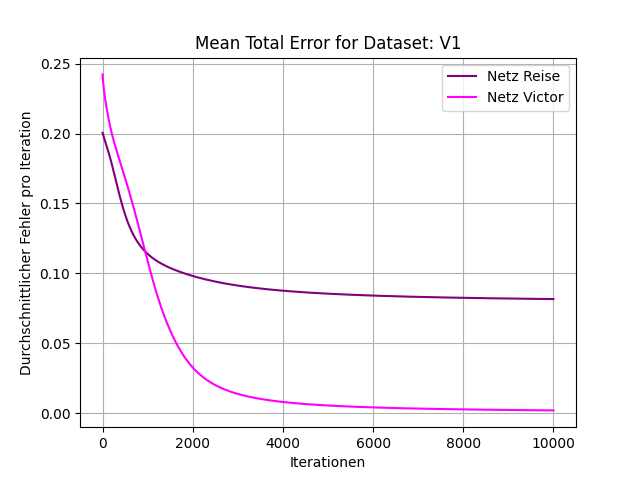
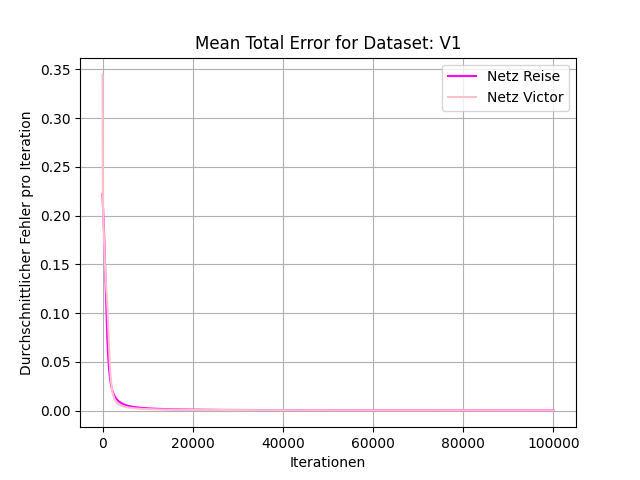
Add comments

diff --git a/Src/Main/Main.java b/Src/Main/Main.java
@@ -791,7 +791,6 @@ public class  Main {
     }
 
     // Reise Method End
-
     public static void compareTotalError() throws IOException {
         String PathLay = "layer_config/";
         String PathTra = "training_data/";
@@ -802,7 +801,7 @@ public class  Main {
 
         File[] dirTrainingData = training_data.listFiles(pathname -> pathname.getName().startsWith(prefix));
         File[] dirLayerConfig = layer_config.listFiles(pathname -> pathname.getName().startsWith(prefix));
-
+        //sortieren damit für training die richtige layer Konfiguration benutzt wird
         Arrays.sort(dirTrainingData);
         Arrays.sort(dirLayerConfig);
 
@@ -827,15 +826,13 @@ public class  Main {
         // für jedes File aus der trainingsdatei
         System.out.println("Starting with evaluating Training data ...");
         for (int i = 1; i < 2; i++) {
-
+            // scheide das Kürzel raus damit man die Daten unterscheiden Kann
             String tag = dirLayerConfig[i].getName();
             tag = tag.substring(0, 3);
-
-            tdata = new TrainingDataVic(PathLay + dirLayerConfig[i].getName(),
-                    PathTra + dirTrainingData[i].getName());
+            // init
+            tdata = new TrainingDataVic(PathLay + dirLayerConfig[i].getName(), PathTra + dirTrainingData[i].getName());
             nvic = new NeuralNetworkVic(tdata);
-            nreise = new NeuralNetworkReise(PathLay + dirLayerConfig[i].getName(),
-                    -1, 1);
+            nreise = new NeuralNetworkReise(PathLay + dirLayerConfig[i].getName(), -1, 1);
             nreise.getTrainingDataLearnable(PathTra + dirTrainingData[i].getName());
 //
             nreise.train(100000, 10e6f);
@@ -859,11 +856,7 @@ public class  Main {
                 2.5f,
                 1.5f,
                 1.0f,
-                0.5f,
-                0.333f,
-                0.25f,
                 0.1f,
-                0.01f,
                 0.001f,
                 0.00001f
 
@@ -888,8 +881,8 @@ public class  Main {
             nreise.writeTotalErrors("python/learn/totalErrR_" + LR);
             System.out.println("Finished Training Reise with " + LR);
 
-            float[] out = nreise.getOutputVektor(new float[] {1, 1, 1, 1 ,1 , 1, 1});
-            nreise.print();
+//            float[] out = nreise.getOutputVektor(new float[] {1, 1, 1, 1, 1, 1, 1});
+//            nreise.print();
 
             nvic.train(10000, LR);
             nvic.writeTotalErrors("python/learn/totalErrV_" + LR + ".csv");
@@ -910,11 +903,7 @@ public class  Main {
                 2.5f,
                 1.5f,
                 1.0f,
-                0.5f,
-                0.333f,
-                0.25f,
                 0.1f,
-                0.01f,
                 0.001f,
                 0.00001f
 
@@ -927,12 +916,11 @@ public class  Main {
                 {1.0947442f,1.0906969f,0.026270742f}
         };
 
-
+        // initalisierung der Netze und tData und tDataUnknown
         NeuralNetworkReise nreise;
         NeuralNetworkVic nvic;
         TrainingDataVic tdata = new TrainingDataVic(PathLay, PathTra);
-        TrainingDataVic tdataUnknown = new TrainingDataVic(PathLay,
-                "training_data_unknown/V2_tData_unknown.csv");
+        TrainingDataVic tdataUnknown = new TrainingDataVic(PathLay,"training_data_unknown/V2_tData_unknown.csv");
 
         System.out.println("Starting training with different LRs ...");
         System.out.println("Used Training: V2");
@@ -943,19 +931,16 @@ public class  Main {
             nreise = new NeuralNetworkReise(PathLay, -1 , 1);
             nreise.getTrainingDataLearnable(PathTra);
 
-
+            //train
             nreise.train(10000, LR);
             System.out.println("Finished Training Reise with " + LR);
-
+            //compute unknown Data
             nreise.computeUnknownData(unknown, "outputReise" + LR);
 
+            nvic.train(10000, LR);
+            System.out.println("Finished Training Victor with " + LR);
 
-
-
-//            nvic.train(10000, LR);
-//            System.out.println("Finished Training Victor with " + LR);
-//
-//            nvic.computeUnknownData(tdataUnknown, "outputVic"+ LR);
+            nvic.computeUnknownData(tdataUnknown, "outputVic"+ LR);
 
 
         }

diff --git a/python/Learnrates.py b/python/Learnrates.py
@@ -5,13 +5,13 @@ import csv
 import os
 
 dirpath = "learn"
-
+# fertige sortierte liste mit allen dateien im verzeichnis an
 files = sorted(os.listdir(dirpath))
 dataV = []
 dataR = []
 
-length = 221
-
+length = 221# anzahl der trainingssätze in V9
+# lese csv dateien ein
 for file in files:
     if file.endswith(".csv"):
         file_path = os.path.join(dirpath, file)
@@ -26,11 +26,14 @@ for file in files:
 
 meanErrorR = []
 meanErrorV = []
+
+# berechne durchschnittlichen Fehler
 for i in range(0, len(dataV)):
     temp1 = []
     temp2 = []
     #print(i)
     for j in range(0, len(dataV[i]) - 2, length):
+        # berechne die summe von j bis j + 221 / 221 (wandle strings in float um )
         temp1.append(sum(map(float, filter(None, dataV[i][j:j + length]))) / length)
         temp2.append(sum(map(float, filter(None, dataR[i][j:j + length]))) / length)
 
@@ -46,17 +49,13 @@ x2 = np.arange(20000)
 
 LRs = [
     0.001,
-    0.01,
     0.1,
-    0.25,
-    0.333,
-    0.5,
     1.0,
     0.00001,
     1.5,
     2.5
 ]
-
+# erstelle Graphen
 for i in range(0, len(LRs)):
     print(i)
     # if i == 1:

diff --git a/python/UnknownLR.py b/python/UnknownLR.py
@@ -4,7 +4,7 @@ from matplotlib import pyplot as plt
 import csv
 import os
 from collections import deque
-
+# lese die tatsächlichen Werte ein
 y_actual = np.array([])
 y_actual = np.empty((0, 6))
 
@@ -16,11 +16,13 @@ with open("y_actual.csv") as csv_file:
 
 
 
-path = "tets"
+path = "unLearn"
+
 
 files = sorted(os.listdir(path))
 linked_list = deque()
-
+# lese die ausgabe Werte der Netze für die unbekannten daten ein
+# speichere 2D npArrays in verketteter Liste
 for file in files:
     file_path = os.path.join(path, file)
     cfile = np.empty((0, 6))
@@ -35,11 +37,7 @@ for file in files:
 
 LRs = [
     0.001,
-    0.01,
     0.1,
-    0.25,
-    0.333,
-    0.5,
     1.0,
     0.00001,
     1.5,
@@ -49,7 +47,7 @@ LRs = [
 print(linked_list)
 x_val = np.arange(1, 7)
 
-
+# plote die linked list indem Fall für victor
 for i in range(len(linked_list)):
     temp = linked_list[i]
     for j in range(len(temp)):

diff --git a/python/TotalError.py b/python/TotalError.py
@@ -142,7 +142,7 @@ x = np.arange(200000)
 #         axs[i, j].set_xlabel('Iterationen')  # Achsenbeschriftung
 #         axs[i, j].set_ylabel('Durchschnittlicher Fehler pro Iteration')  # Achsenbeschriftung
 
-for i in range(1, 2):
+for i in range(0, len(length)):
     plt.plot(x, meanErrorR[i], label='Netz Reise', color=np.random.choice(colors))
     plt.plot(x, meanErrorV[i], label='Netz Victor', color=np.random.choice(colors))
     plt.legend()
